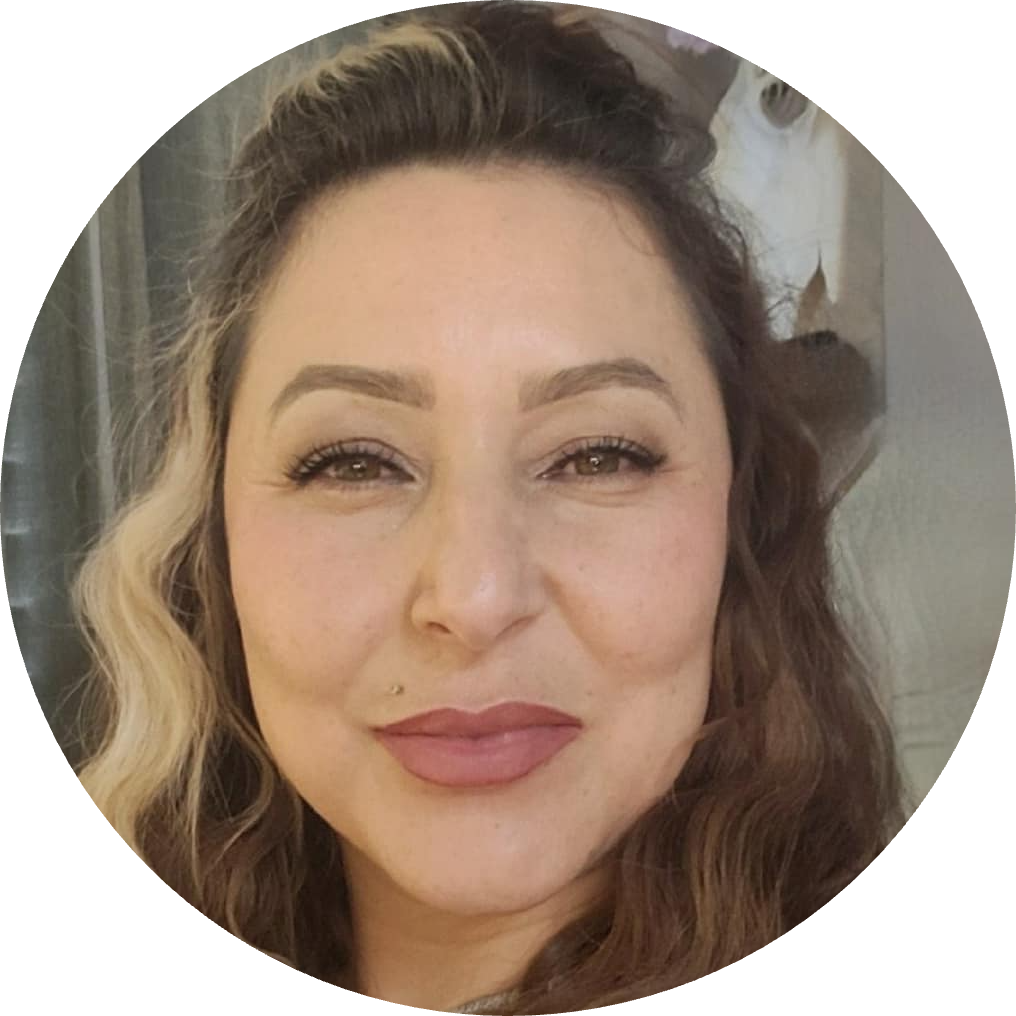
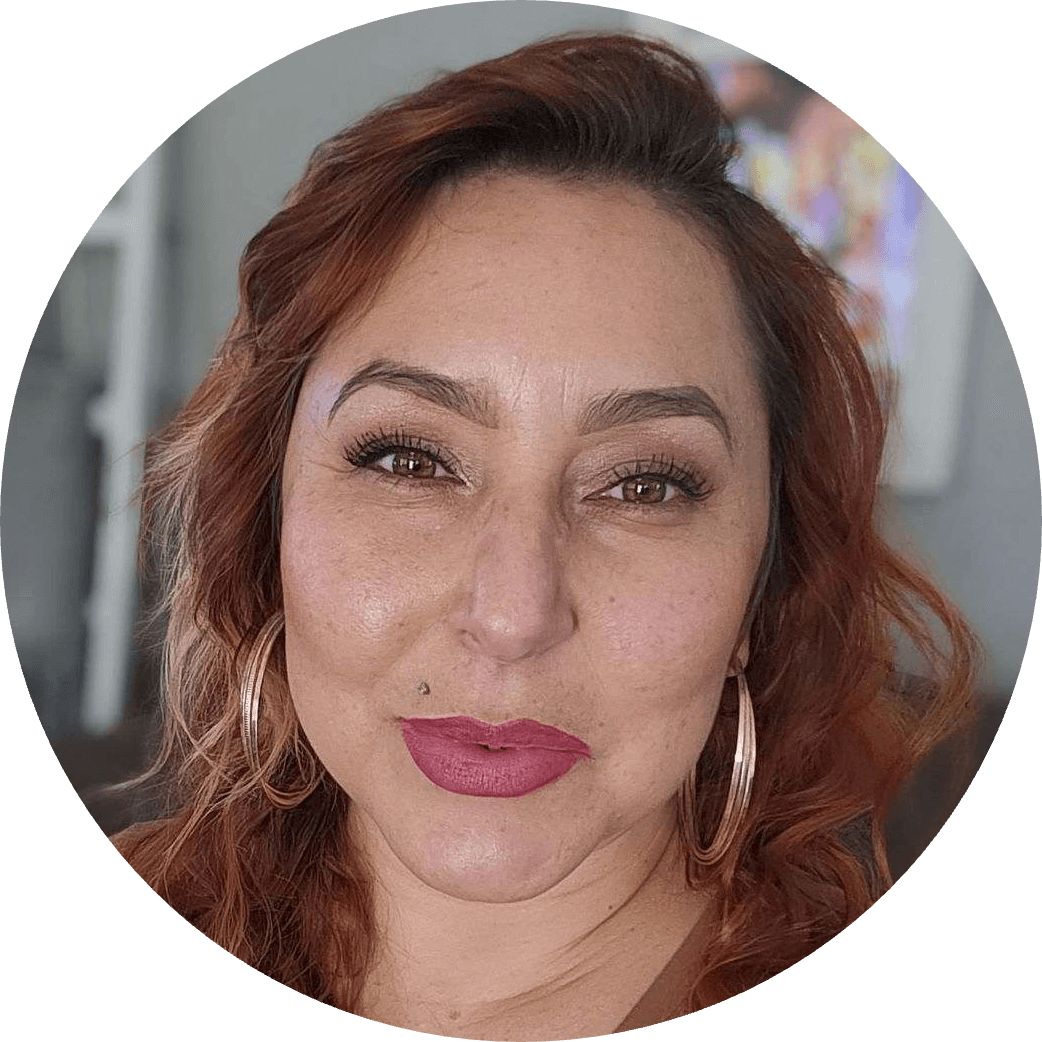
ruby photos added

diff --git a/src/Components/HomePage/MeetOurTeam.js b/src/Components/HomePage/MeetOurTeam.js
@@ -367,7 +367,7 @@ function MeetOurTeam() {
                           onClick={() => handleTeamMemberClick({
                               name: 'Ruby',
                               title: 'Beautician | Men Services | Child Friendly',
-                              image: '/images/ruby.png',
+                              image: '/images/ruby/pro-photo/ruby__mobile.png',
                               desktopBio: {
                                       paragraph1: "Meet Ruby Armendariz, an inspired beautician with over a decade of experience in the realm of hair aesthetics. Ruby's journey in the beauty industry is marked by her passion for aligning fashion trends with each client's unique inspiration. With a keen eye for style and a commitment to individuality, she specializes in creating signature looks that resonate with the personal flair of each client, whether they are women, men, or children.",
                                       paragraph2: "Ruby's expertise extends across a wide spectrum of hair services. She is a specialist in hair color and bleaching, adept at transforming your hair to align with the latest fashion trends. Her skills in hair extensions are backed by professional certification, allowing her to craft looks that embody your desired aesthetic. Additionally, Ruby offers perms and hairstyles tailored to complement your vibe, ensuring that each visit leaves you feeling refreshed and confident. Her proficiency isn't just limited to styling; she's equally dedicated to hair health, providing treatments and personalized after-care advice suited to your hair type.",
@@ -377,15 +377,15 @@ function MeetOurTeam() {
                                   paragraph1: `Introducing Ruby, an inspired beautician with over ten years of experience in hair aesthetics, Ruby is your go-to expert for transforming fashion trends into personalized hairstyles. She excels in a range of services from haircuts for women, men, and children to color and bleaching, ensuring each look aligns with your individual style. Ruby's expertise extends to hair extensions, perms, and specialized treatments, complemented by tailored after-care advice to maintain your hair's health and vibrancy. At the heart of her approach is a dedication to crafting unique styles that not only meet but exceed your expectations, making every salon visit a step towards self-expression and confidence.`
                               },
                               gallery: {
-                                  photo1: '/images/ruby/gallery/a2.jpeg',
-                                  photo2: '/images/ruby/gallery/a3.jpeg',
-                                  photo3: '/images/ruby/gallery/a4.jpeg',
-                                  photo4: '/images/ruby/gallery/a5.jpeg',
-                                  photo5: '/images/ruby/gallery/a6.jpeg',
-                                  photo6: '/images/ruby/gallery/a6.jpeg',
-                                  photo7: '/images/ruby/gallery/a2.jpeg',
-                                  photo8: '/images/ruby/gallery/a1.jpeg',
-                                  photo9: '/images/ruby/gallery/a3.jpeg',
+                                  photo1: '/images/ruby/gallery/1.jpg',
+                                  photo2: '/images/ruby/gallery/2.jpg',
+                                  photo3: '/images/ruby/gallery/3.jpg',
+                                  photo4: '/images/ruby/gallery/4.jpg',
+                                  photo5: '/images/ruby/gallery/5.jpg',
+                                  photo6: '/images/ruby/gallery/6.jpg',
+                                  photo7: '/images/ruby/gallery/7.jpg',
+                                  photo8: '/images/ruby/gallery/8.jpg',
+                                  photo9: '/images/ruby/gallery/9.jpg',
                               },
                               bookingLink: 'https://rubyarmendariz.glossgenius.com/',
                               contactInfo: '432-290-8718',

diff --git a/src/Components/HomePage/DesktopTeam.js b/src/Components/HomePage/DesktopTeam.js
@@ -268,7 +268,7 @@ function DesktopTeam() {
         name: 'Ruby',
         personal__img: '/images/ruby/pro-photo/ruby.png',
         title: 'Beautician | Men Services | Child Friendly',
-        image: '/images/ruby.png',
+        image: '/images/ruby/pro-photo/ruby__mobile.png',
         desktopBio: {
                 paragraph1: "Meet Ruby Armendariz, an inspired beautician with over a decade of experience in the realm of hair aesthetics. Ruby's journey in the beauty industry is marked by her passion for aligning fashion trends with each client's unique inspiration. With a keen eye for style and a commitment to individuality, she specializes in creating signature looks that resonate with the personal flair of each client, whether they are women, men, or children.",
                 paragraph2: "Ruby's expertise extends across a wide spectrum of hair services. She is a specialist in hair color and bleaching, adept at transforming your hair to align with the latest fashion trends. Her skills in hair extensions are backed by professional certification, allowing her to craft looks that embody your desired aesthetic. Additionally, Ruby offers perms and hairstyles tailored to complement your vibe, ensuring that each visit leaves you feeling refreshed and confident. Her proficiency isn't just limited to styling; she's equally dedicated to hair health, providing treatments and personalized after-care advice suited to your hair type.",
@@ -278,15 +278,15 @@ function DesktopTeam() {
             paragraph1: `Introducing Ruby, an inspired beautician with over ten years of experience in hair aesthetics, Ruby is your go-to expert for transforming fashion trends into personalized hairstyles. She excels in a range of services from haircuts for women, men, and children to color and bleaching, ensuring each look aligns with your individual style. Ruby's expertise extends to hair extensions, perms, and specialized treatments, complemented by tailored after-care advice to maintain your hair's health and vibrancy. At the heart of her approach is a dedication to crafting unique styles that not only meet but exceed your expectations, making every salon visit a step towards self-expression and confidence.`
         },
         gallery: {
-            photo1: '/images/ruby/gallery/a2.jpeg',
-            photo2: '/images/ruby/gallery/a3.jpeg',
-            photo3: '/images/ruby/gallery/a4.jpeg',
-            photo4: '/images/ruby/gallery/a5.jpeg',
-            photo5: '/images/ruby/gallery/a6.jpeg',
-            photo6: '/images/ruby/gallery/a6.jpeg',
-            photo7: '/images/ruby/gallery/a2.jpeg',
-            photo8: '/images/ruby/gallery/a1.jpeg',
-            photo9: '/images/ruby/gallery/a3.jpeg',
+            photo1: '/images/ruby/gallery/1.jpg',
+            photo2: '/images/ruby/gallery/2.jpg',
+            photo3: '/images/ruby/gallery/3.jpg',
+            photo4: '/images/ruby/gallery/4.jpg',
+            photo5: '/images/ruby/gallery/5.jpg',
+            photo6: '/images/ruby/gallery/6.jpg',
+            photo7: '/images/ruby/gallery/7.jpg',
+            photo8: '/images/ruby/gallery/8.jpg',
+            photo9: '/images/ruby/gallery/9.jpg',
         },
         bookingLink: 'https://rubyarmendariz.glossgenius.com/',
         contactInfo: '432-290-8718',
@@ -337,7 +337,7 @@ function DesktopTeam() {
             photo8: '/images/yara_c/gallery/y8.png',
             photo9: '/images/yara_c/gallery/y9.png',
         },
-        bookingLink: 'https://yaritzabislar.glossgenius.com',
+        bookingLink: 'https://yaritzabislar.glossgenius.com/services',
         contactInfo: '432-290-8115',
         services: {
             haircut: `Men's Haircut`,
